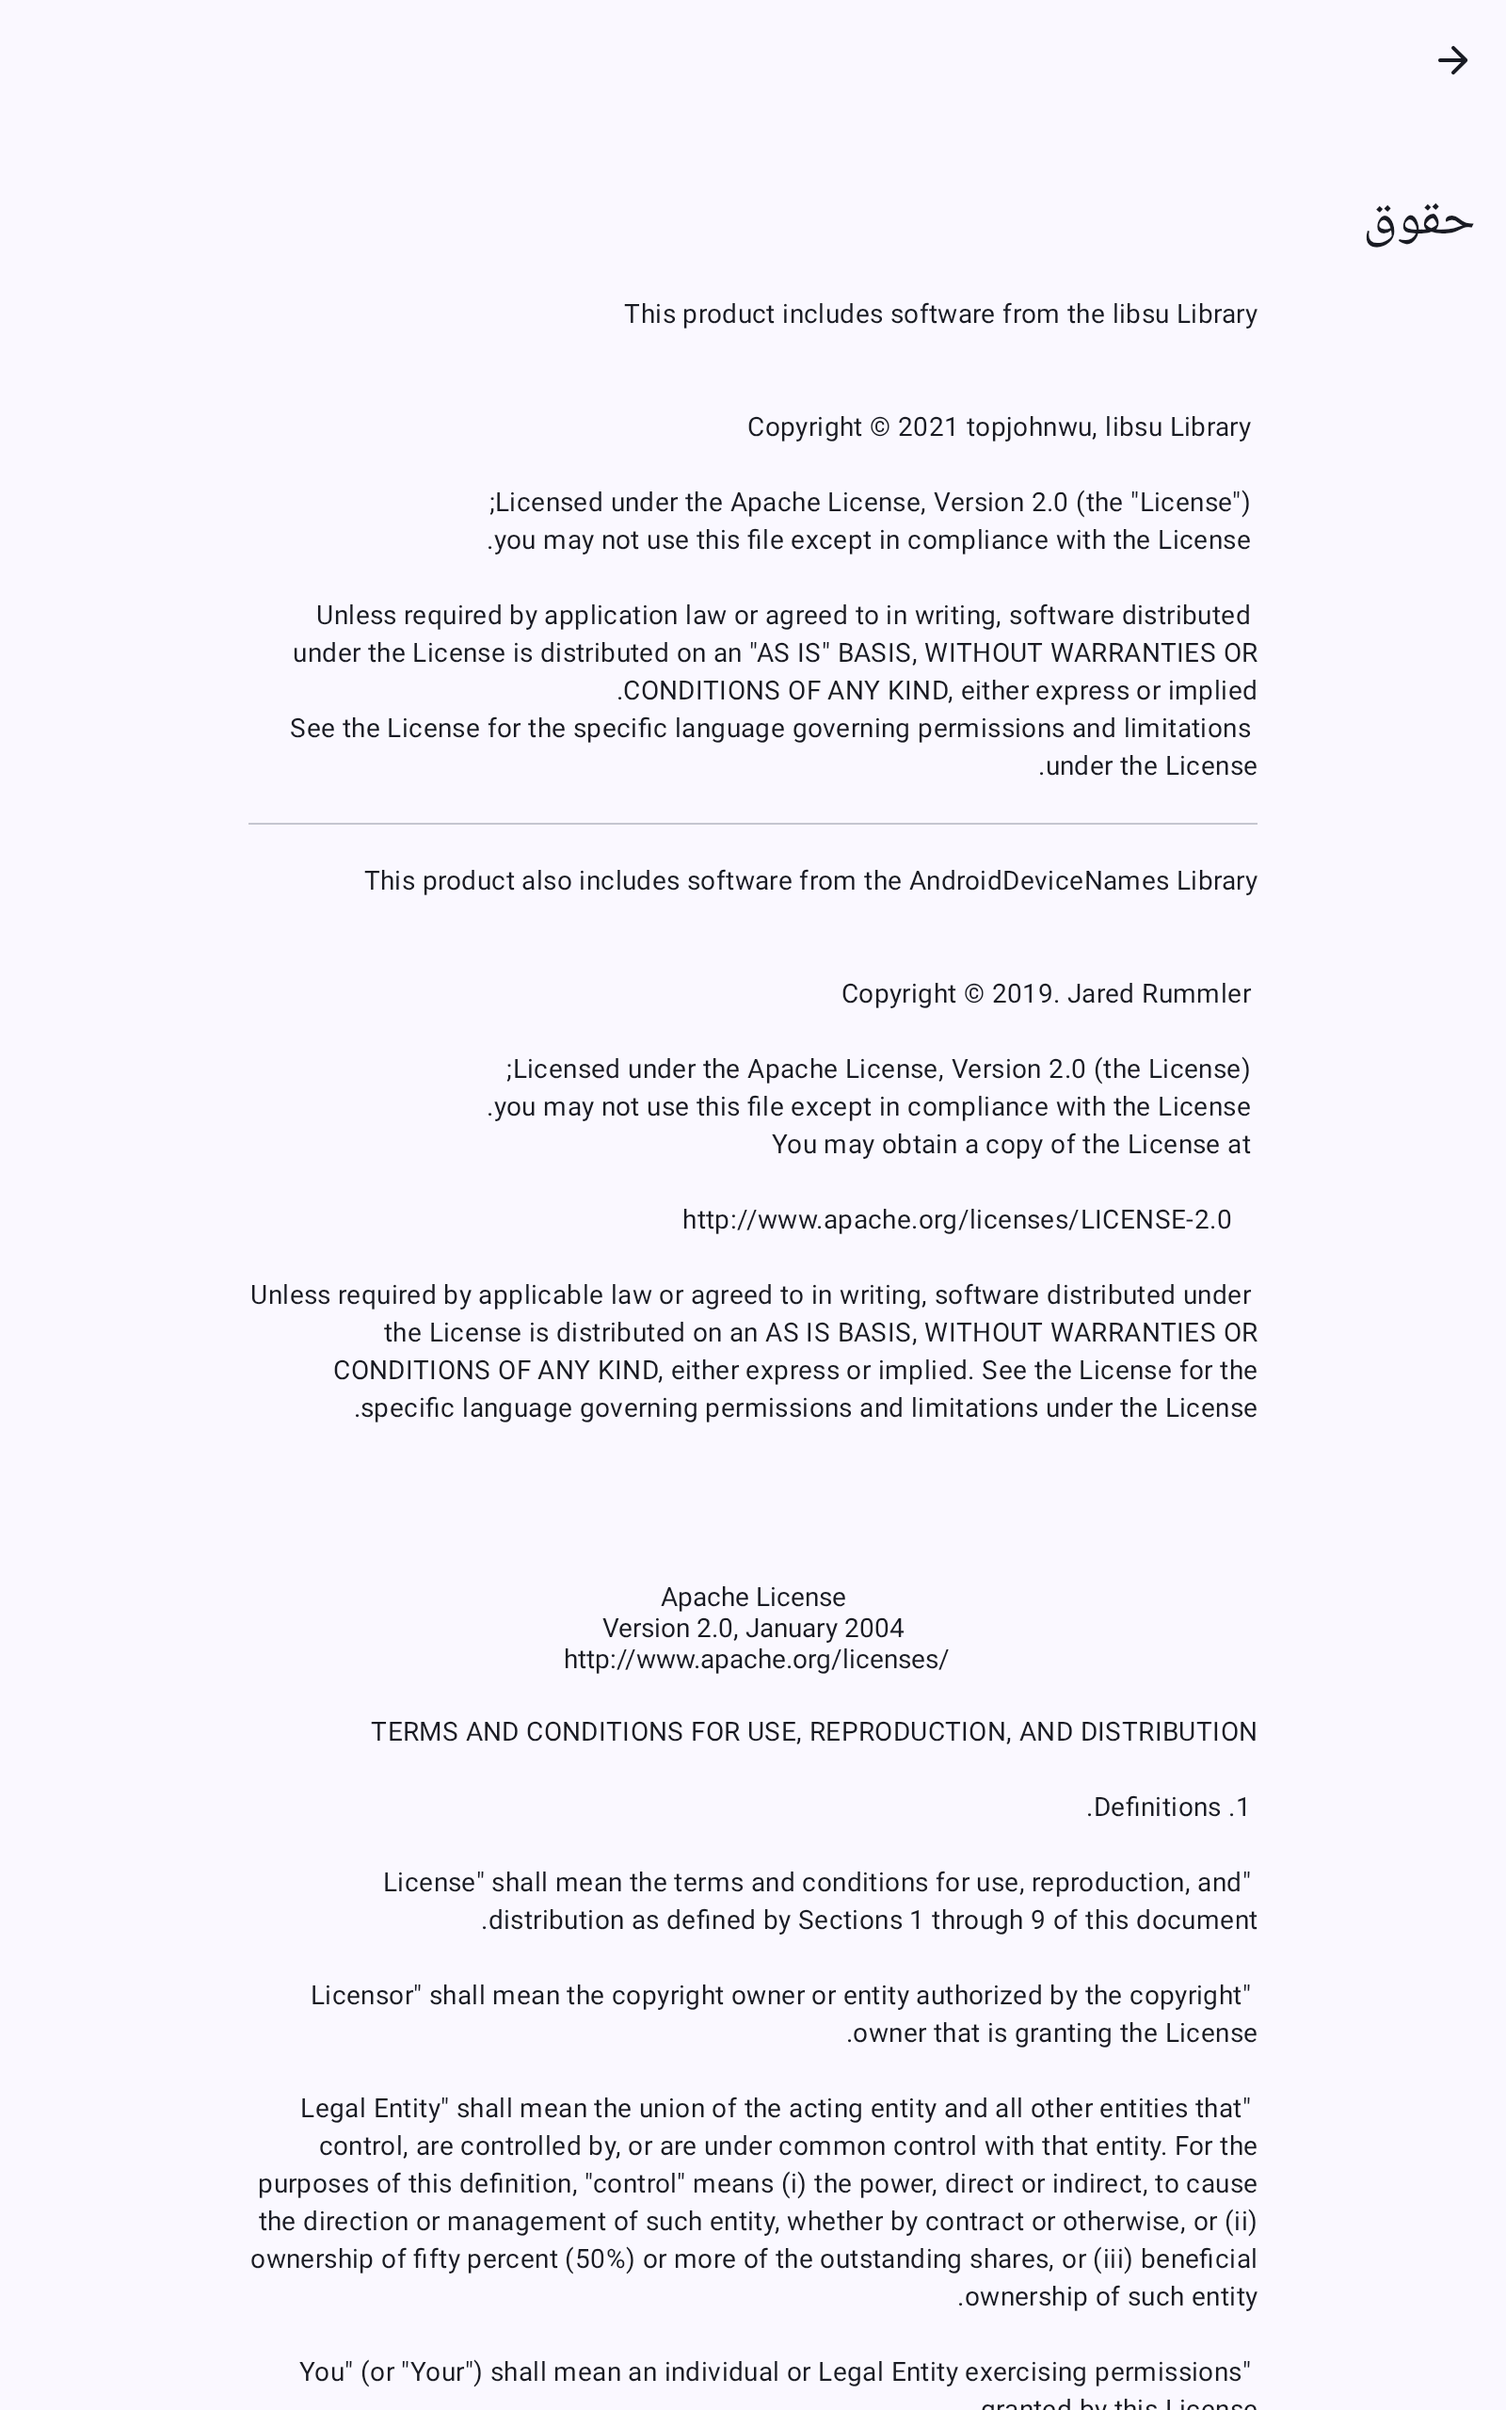
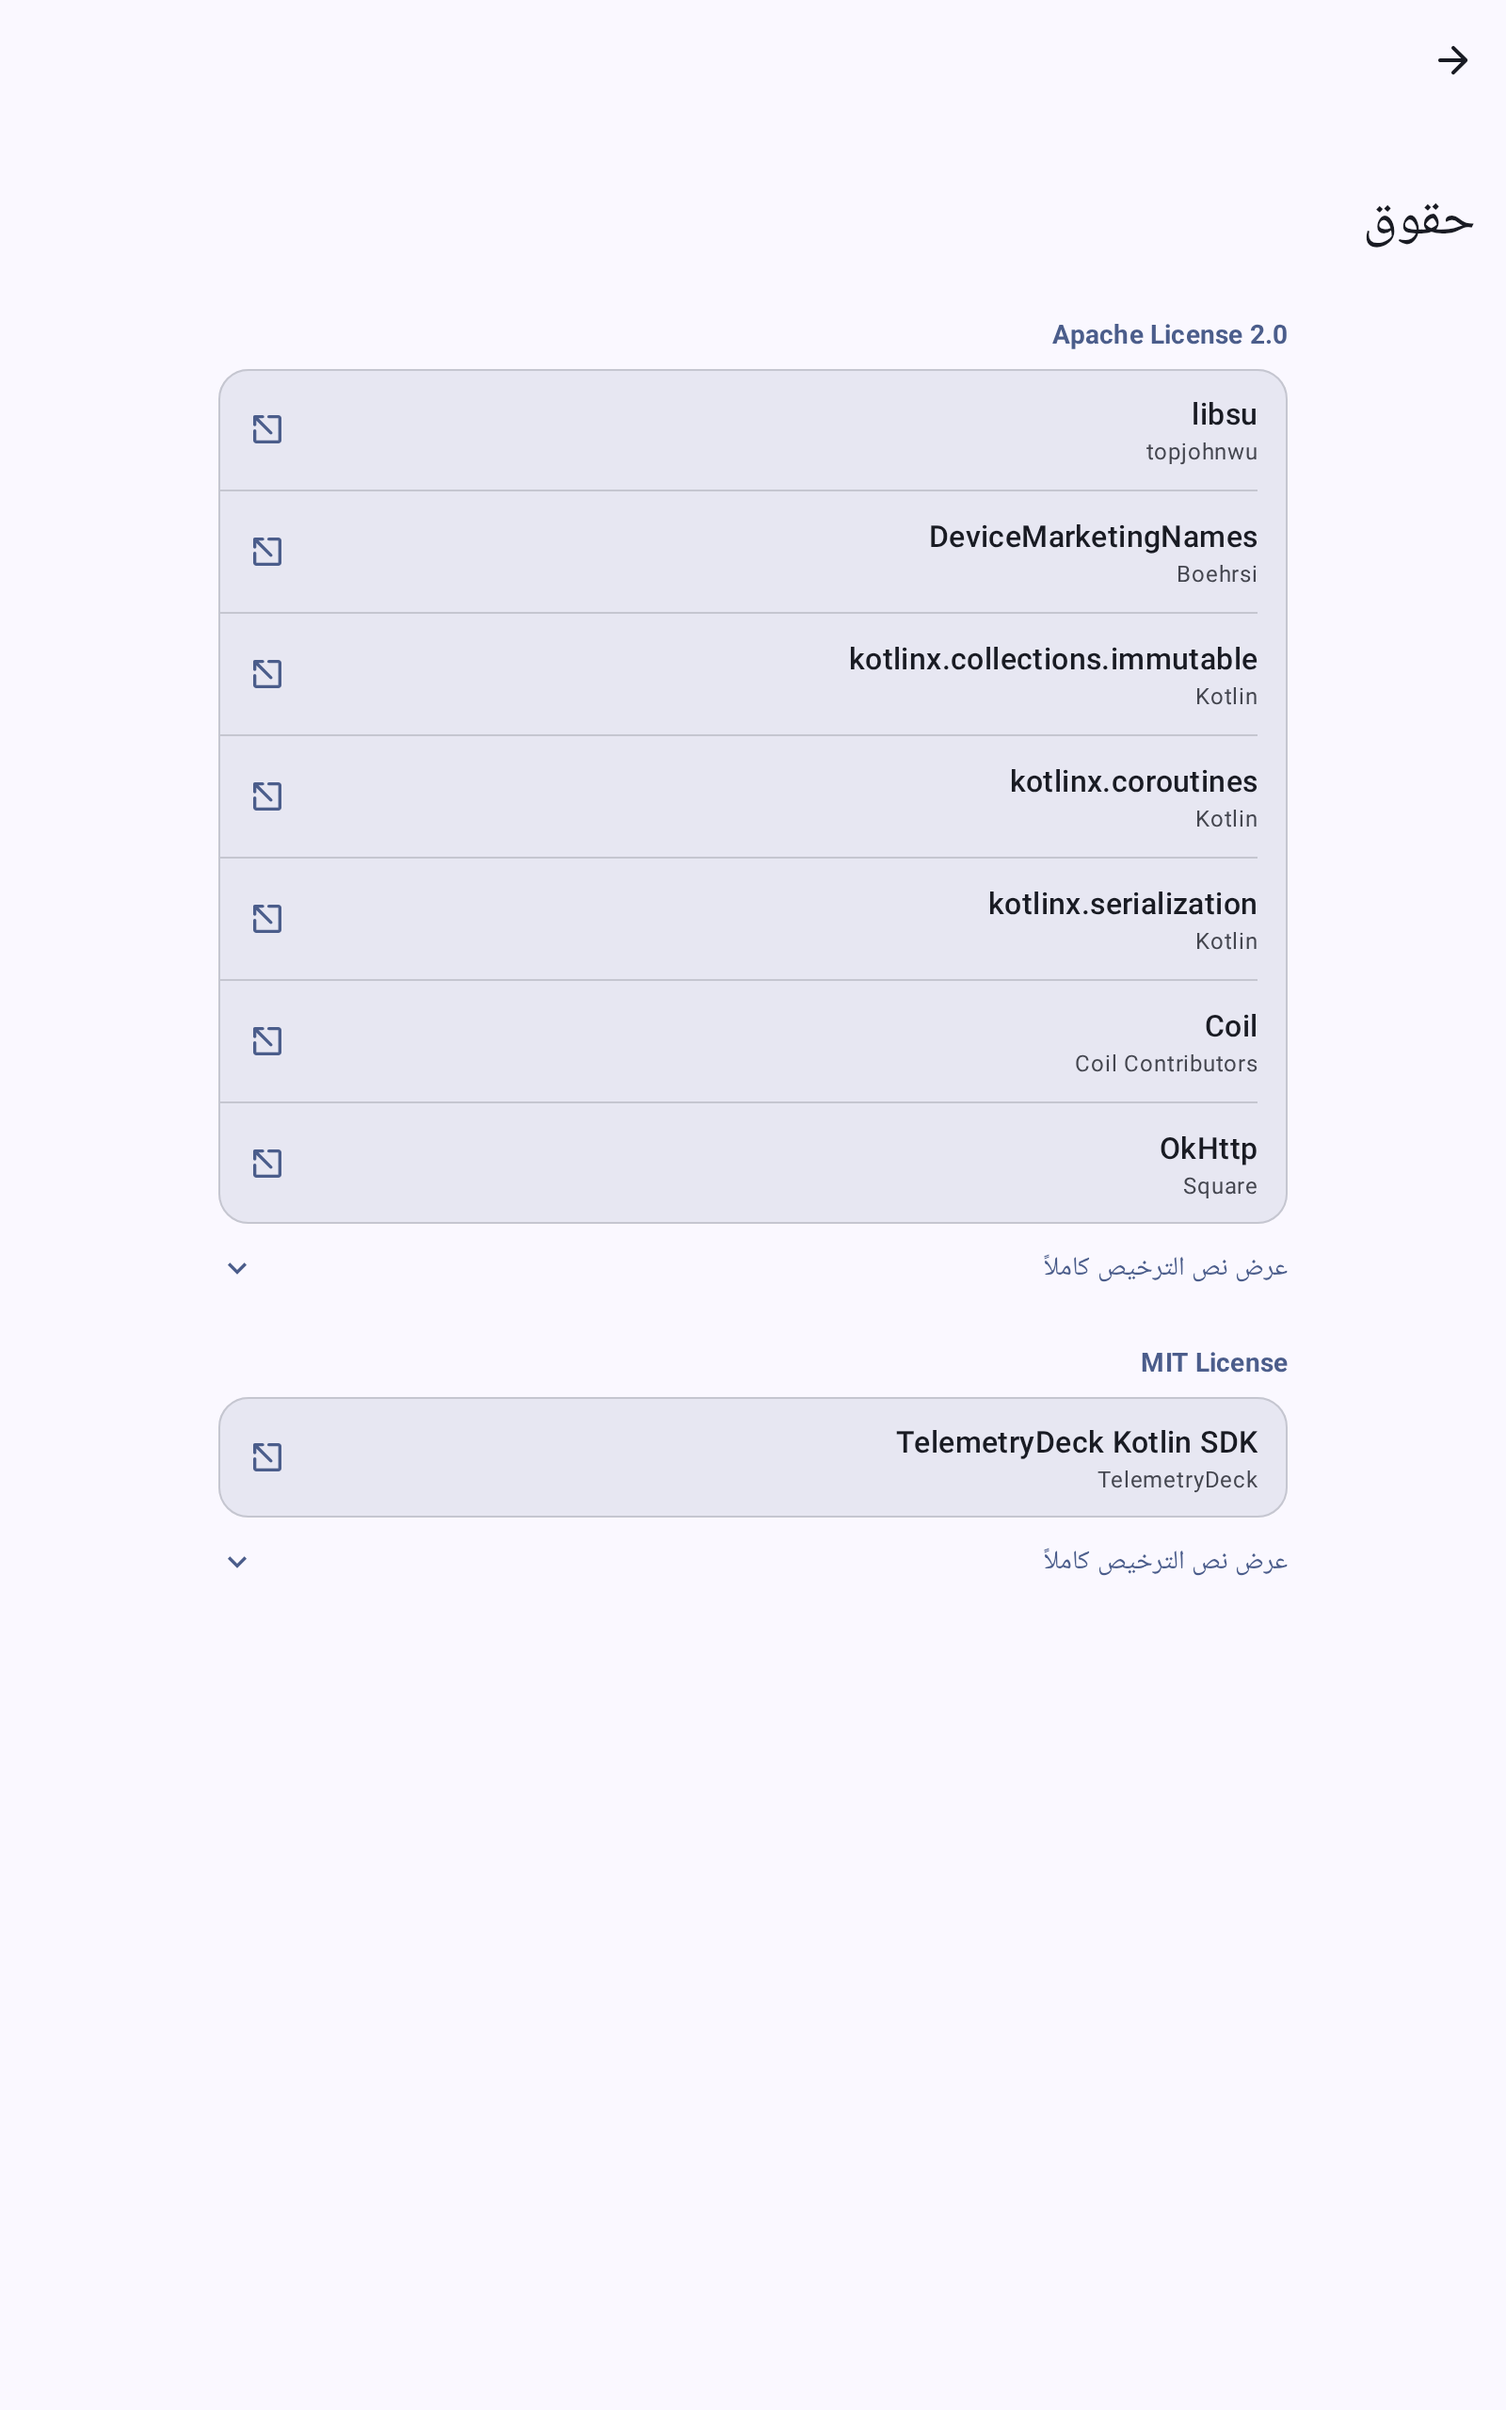
release: cut the 2.5 changelog and its store assets
Release notes for all five locales, each inside Play's 500-character limit.

The v2.5 screenshot export is re-rendered, so the Licenses screen matches what
ships, and Tablet10 carries the slot names screenshots.order asks for
(AboutShot, LicenseShot, SettingsShot) instead of the *DialogShot names those
screens render under at 840dp and above.

diff --git a/Play Store/Release Notes/2.5/all-locales.md b/Play Store/Release Notes/2.5/all-locales.md
@@ -1,0 +1,63 @@
+# Play Store release notes — 2.5
+
+All locales in one place. Language tags are the Play Console codes. Paste each
+block under **Release → Production → … → Release notes** for the matching language.
+
+## en-US (default)
+```
+Version 2.5:
+➕ Large screens: Settings, About and Licenses open as a swipe-to-close dialog
+➕ Rate this app without leaving it, plus a link on About (Google Play)
+➕ Optional Support development card after a root check (Google Play)
+🛠 Other Apps on About refreshes from the web, in your language
+🛠 Licenses credits every bundled library, grouped by license
+🛠 Faster cold start and smoother first scroll
+🔨 Usage-data switch applies immediately; smoother update progress
+```
+
+## de-DE (German)
+```
+Version 2.5:
+➕ Große Displays: Einstellungen, Über und Lizenzen als Dialog, per Wischen schließbar
+➕ App direkt in der App bewerten, plus Link unter Über (Google Play)
+➕ Optionale Karte Entwicklung unterstützen nach einer Root-Prüfung (Google Play)
+🛠 Andere Apps lädt aktuelle Infos aus dem Web, in deiner Sprache
+🛠 Lizenzen nennt alle Bibliotheken, nach Lizenz gruppiert
+🛠 Schnellerer Start, flüssigeres erstes Scrollen
+🔨 Nutzungsdaten-Schalter wirkt sofort; flüssigerer Update-Fortschritt
+```
+
+## ar (Arabic)
+```
+اصدار 2.5:
+➕ الشاشات الكبيرة: الإعدادات وحول والتراخيص تُفتح كنافذة تُغلق بالسحب
+➕ قيّم التطبيق من داخله، مع رابط في شاشة حول (Google Play)
+➕ بطاقة اختيارية لدعم التطوير بعد فحص الروت (Google Play)
+🛠 قائمة تطبيقات أخرى في شاشة حول تُحدّث من الويب بلغتك
+🛠 التراخيص تذكر كل المكتبات المضمّنة، مجمّعة حسب الترخيص
+🛠 بدء تشغيل أسرع وتمرير أول أكثر سلاسة
+🔨 مفتاح بيانات الاستخدام يعمل فوراً؛ تقدّم تحديث أكثر سلاسة
+```
+
+## es-ES (Spanish)
+```
+Versión 2.5:
+➕ Pantallas grandes: Ajustes, Acerca de y Licencias como diálogo, se cierra deslizando
+➕ Valora la app sin salir, y un enlace en Acerca de (Google Play)
+➕ Tarjeta opcional para apoyar el desarrollo tras comprobar root (Google Play)
+🛠 Otras apps se actualiza desde la web, en tu idioma
+🛠 Licencias acredita todas las bibliotecas incluidas, por licencia
+🛠 Inicio más rápido y primer desplazamiento más fluido
+🔨 El interruptor de datos de uso se aplica al instante
+```
+
+## ru-RU (Russian)
+```
+Версия 2.5:
+➕ Большие экраны: Настройки, О приложении и Лицензии — как диалог, закрывается свайпом
+➕ Оценка приложения внутри него и ссылка в разделе О приложении (Google Play)
+➕ Необязательная карточка поддержки разработки после проверки root (Google Play)
+🛠 Другие приложения обновляются из интернета, на вашем языке
+🛠 Лицензии перечисляют все встроенные библиотеки, по лицензиям
+🔨 Быстрее запуск; переключатель данных срабатывает сразу; плавнее индикатор обновления
+```

diff --git a/CHANGELOG.md b/CHANGELOG.md
@@ -7,6 +7,8 @@ and this project adheres to [Semantic Versioning](https://semver.org/spec/v2.0.0
 
 ## [Unreleased]
 
+## [2.5] - 2026-08-26
+
 ### Added
 - Two how-to videos, and the debug-only recording tooling they need. `Play Store/Video/howto/request-access.json` covers the state people write in about: the app can see a root manager and still be refused by it, and the message saying so reads like a broken app until you find the button. `Play Store/Video/howto/analytics.json` covers turning usage data off and resetting the anonymous ID. Both need a debug build, so three things now know a recording is in progress: `DemoDeviceOverride` takes the device name and model from the launch intent (an emulator otherwise reads "emulator" and "emu64xa" under a Pixel bezel), and the "Demo:" overflow items and the "Debug: record products" card hide themselves while it is armed. An armed root result now also governs the Request Root access button, which previously ran a real su request and answered "not rooted" in the middle of a demo of the opposite. All of it is behind `BuildConfig.DEBUG`.
 - On large screens (tablets, unfolded foldables, desktop windows, and XR panels), opening Settings, About, or Licenses now shows it as a dialog over the main screen instead of replacing the whole screen — dismiss it with the close button, by tapping outside, with Back, or by swiping the card down. Phones are unchanged.
